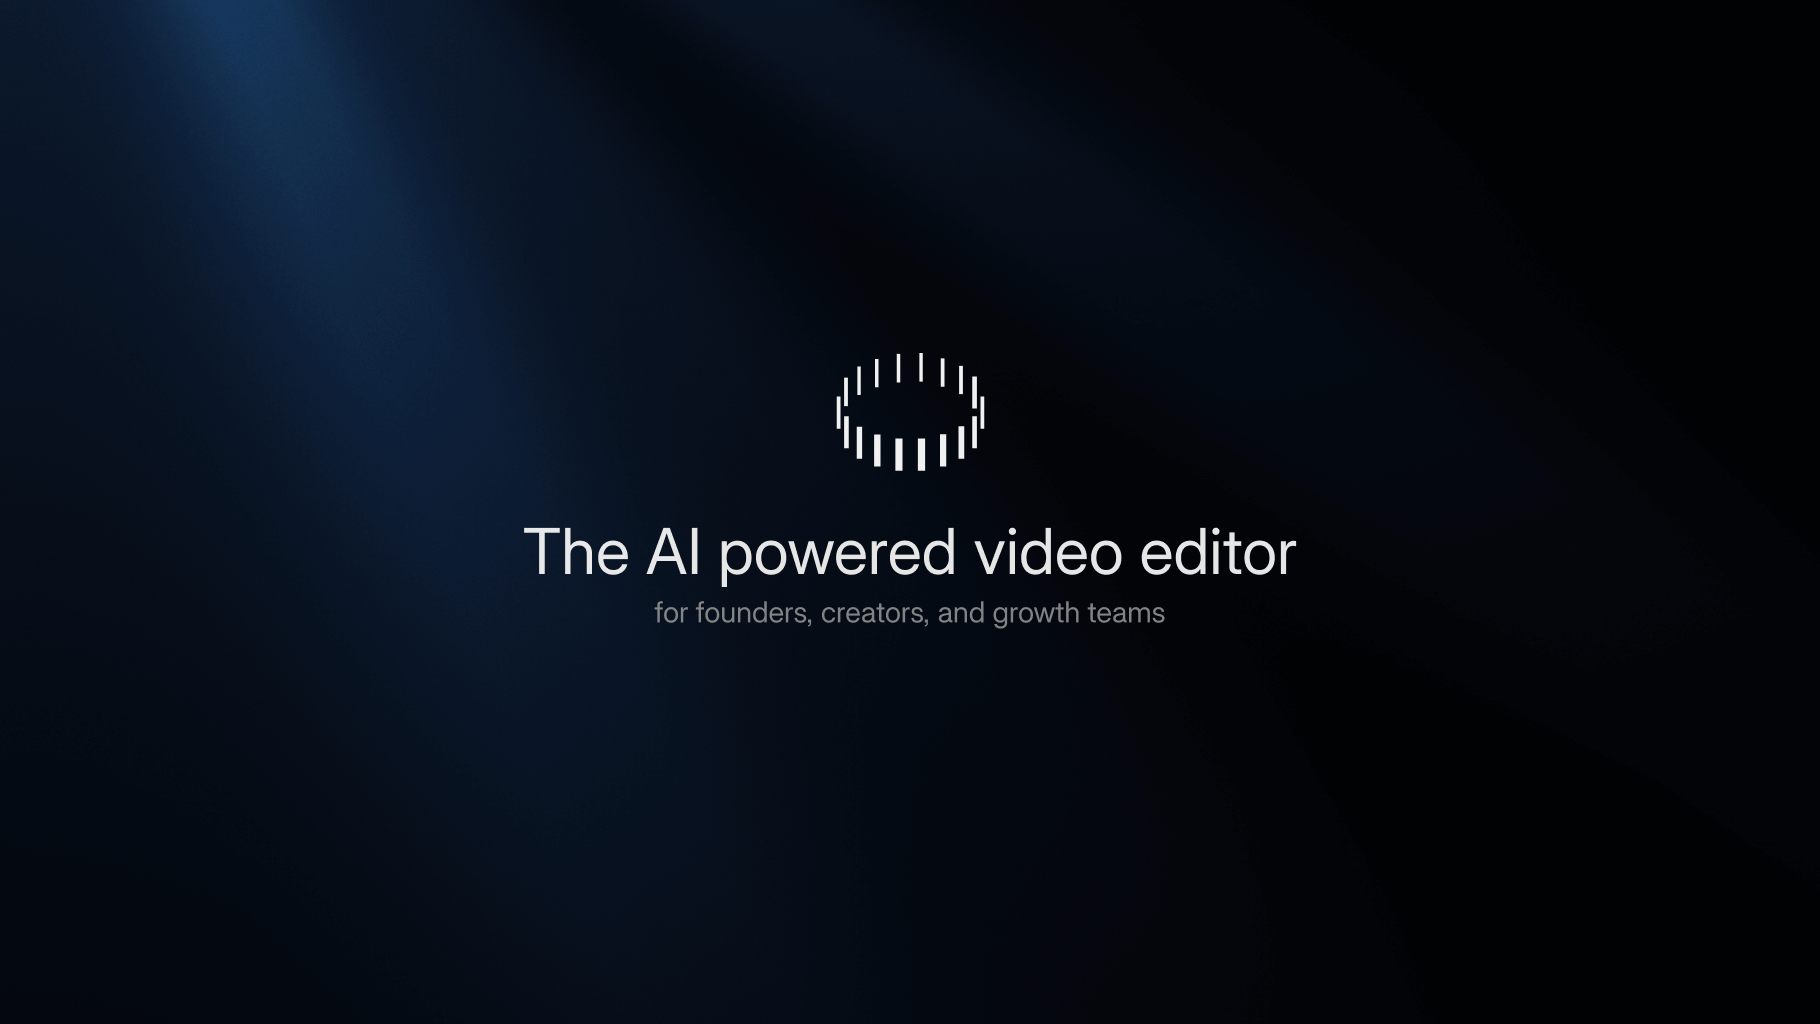
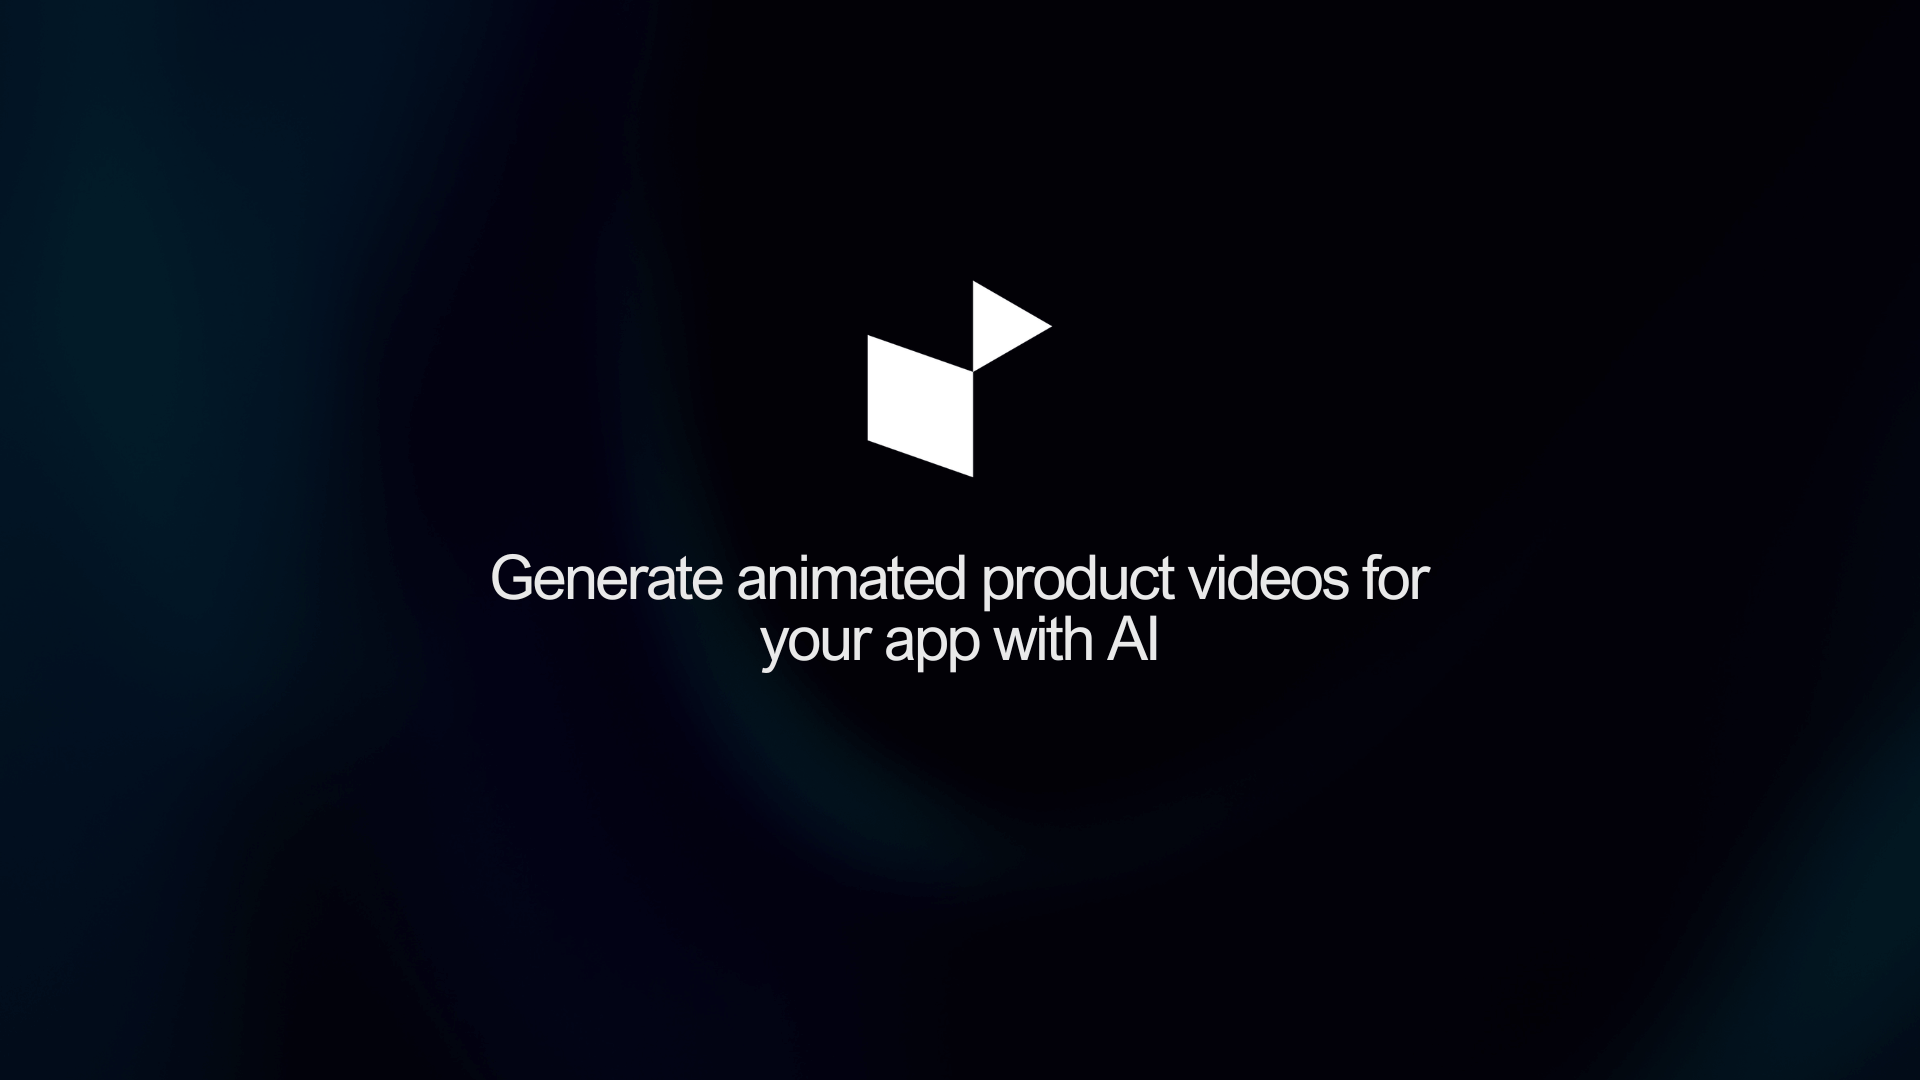
feat: seo and geo optimization

diff --git a/apps/web/app/page.tsx b/apps/web/app/page.tsx
@@ -1,5 +1,97 @@
+import type { Metadata } from "next";
 import { LandingPage } from "@/features/landing";
 
+const BASE_URL = "https://reanimate.sh";
+const APP_DESCRIPTION =
+  "Reanimate turns your app into animated, motion-designed marketing videos using AI. Create app demo videos, product launch clips, and social media content in minutes.";
+
+export const metadata: Metadata = {
+  title: "Reanimate | Generate animated product videos for your app with AI",
+  description: APP_DESCRIPTION,
+  alternates: {
+    canonical: BASE_URL,
+  },
+  openGraph: {
+    title: "Reanimate | Generate animated product videos for your app with AI",
+    description: APP_DESCRIPTION,
+    url: BASE_URL,
+  },
+  twitter: {
+    title: "Reanimate | Generate animated product videos for your app with AI",
+    description: APP_DESCRIPTION,
+  },
+};
+
+const softwareAppSchema = {
+  "@context": "https://schema.org",
+  "@type": "SoftwareApplication",
+  name: "Reanimate",
+  url: BASE_URL,
+  applicationCategory: "MultimediaApplication",
+  operatingSystem: "Web",
+  description: APP_DESCRIPTION,
+  offers: [
+    {
+      "@type": "Offer",
+      name: "Creator",
+      price: "25",
+      priceCurrency: "USD",
+      priceSpecification: {
+        "@type": "UnitPriceSpecification",
+        price: "25",
+        priceCurrency: "USD",
+        unitText: "MONTH",
+      },
+      description: "Full AI-powered editing, 5 active projects per month, 100GB cloud storage.",
+    },
+    {
+      "@type": "Offer",
+      name: "Pro",
+      price: "100",
+      priceCurrency: "USD",
+      priceSpecification: {
+        "@type": "UnitPriceSpecification",
+        price: "100",
+        priceCurrency: "USD",
+        unitText: "MONTH",
+      },
+      description: "Unlimited projects, priority AI processing, 1TB cloud storage, priority 24/7 support.",
+    },
+    {
+      "@type": "Offer",
+      name: "Teams",
+      description: "Custom pricing for organizations. Real-time collaboration, SAML & SSO, unlimited storage.",
+    },
+  ],
+  featureList: [
+    "AI-generated animated product videos",
+    "App demo video creation",
+    "Natural language video editing commands",
+    "Smart zoom and screen pan",
+    "Automated captions",
+    "Visual edit with click, drag, and resize",
+    "Unlimited exports",
+  ],
+  audience: {
+    "@type": "Audience",
+    audienceType:
+      "App developers, SaaS founders, product marketers, mobile app teams, indie hackers, startup teams",
+  },
+  creator: {
+    "@type": "Organization",
+    name: "Reanimate",
+    url: BASE_URL,
+  },
+};
+
 export default function Home() {
-  return <LandingPage />;
+  return (
+    <>
+      <script
+        type="application/ld+json"
+        dangerouslySetInnerHTML={{ __html: JSON.stringify(softwareAppSchema) }}
+      />
+      <LandingPage />
+    </>
+  );
 }

diff --git a/apps/web/app/layout.tsx b/apps/web/app/layout.tsx
@@ -3,17 +3,56 @@ import "./globals.css";
 import { ClerkProvider } from "@clerk/nextjs";
 import ConvexClientProvider from "@/components/ConvexClientProvider";
 
+const BASE_URL = "https://reanimate.sh";
+
 export const metadata: Metadata = {
-  title: "Reanimate | Generate animated product videos for your app with AI",
+  metadataBase: new URL(BASE_URL),
+  title: {
+    default: "Reanimate | Generate animated product videos for your app with AI",
+    template: "%s | Reanimate",
+  },
   description: "Turn your app into animated product videos with AI. Create demos, launch clips, and social content fast.",
   icons: {
     icon: "/logos/reanimate-logo-white.svg",
   },
+  alternates: {
+    canonical: BASE_URL,
+  },
   openGraph: {
     title: "Reanimate | Generate animated product videos for your app with AI",
     description: "Turn your app into animated product videos with AI. Create demos, launch clips, and social content fast.",
-    images: ["/images/marketing/og.png"],
+    images: [
+      {
+        url: "/images/marketing/og.png",
+        width: 1200,
+        height: 630,
+        alt: "Reanimate | Generate animated product videos for your app with AI",
+      },
+    ],
     type: "website",
+    siteName: "Reanimate",
+    locale: "en_US",
+    url: BASE_URL,
+  },
+  twitter: {
+    card: "summary_large_image",
+    title: "Reanimate | Generate animated product videos for your app with AI",
+    description: "Turn your app into animated product videos with AI. Create demos, launch clips, and social content fast.",
+    images: ["/images/marketing/og.png"],
+  },
+};
+
+const organizationSchema = {
+  "@context": "https://schema.org",
+  "@type": "Organization",
+  name: "Reanimate",
+  url: BASE_URL,
+  logo: `${BASE_URL}/logos/reanimate-logo-white.svg`,
+  description: "Turn your app into animated product videos with AI. Create demos, launch clips, and social content fast.",
+  contactPoint: {
+    "@type": "ContactPoint",
+    email: "contact@reanimate.sh",
+    contactType: "customer support",
   },
 };
 
@@ -24,6 +63,12 @@ export default function RootLayout({
 }>) {
   return (
     <html lang="en" className="dark">
+      <head>
+        <script
+          type="application/ld+json"
+          dangerouslySetInnerHTML={{ __html: JSON.stringify(organizationSchema) }}
+        />
+      </head>
       <body className="font-sans relative flex min-h-screen flex-col items-center justify-center overflow-x-hidden bg-black text-white">
         <ClerkProvider dynamic waitlistUrl="/waitlist">
           <ConvexClientProvider>{children}</ConvexClientProvider>

diff --git a/apps/web/app/pricing/page.tsx b/apps/web/app/pricing/page.tsx
@@ -1,5 +1,45 @@
+import type { Metadata } from "next";
 import { PricingPage } from "@/features/pricing";
+import { FAQS } from "@/features/pricing/data";
+
+export const metadata: Metadata = {
+  title: "Pricing",
+  description: "Simple, transparent pricing for Reanimate. Start with a 7-day free trial. Creator at $25/mo, Pro at $100/mo, or custom Teams pricing.",
+  alternates: {
+    canonical: "https://reanimate.sh/pricing",
+  },
+  openGraph: {
+    title: "Pricing | Reanimate",
+    description: "Simple, transparent pricing for Reanimate. Start with a 7-day free trial. Creator at $25/mo, Pro at $100/mo, or custom Teams pricing.",
+    url: "https://reanimate.sh/pricing",
+  },
+  twitter: {
+    title: "Pricing | Reanimate",
+    description: "Simple, transparent pricing for Reanimate. Start with a 7-day free trial. Creator at $25/mo, Pro at $100/mo, or custom Teams pricing.",
+  },
+};
+
+const faqSchema = {
+  "@context": "https://schema.org",
+  "@type": "FAQPage",
+  mainEntity: FAQS.map((faq) => ({
+    "@type": "Question",
+    name: faq.question,
+    acceptedAnswer: {
+      "@type": "Answer",
+      text: faq.answer,
+    },
+  })),
+};
 
 export default function PricingRoute() {
-  return <PricingPage />;
+  return (
+    <>
+      <script
+        type="application/ld+json"
+        dangerouslySetInnerHTML={{ __html: JSON.stringify(faqSchema) }}
+      />
+      <PricingPage />
+    </>
+  );
 }

diff --git a/apps/web/app/sitemap.ts b/apps/web/app/sitemap.ts
@@ -1,0 +1,38 @@
+import type { MetadataRoute } from "next";
+
+const BASE_URL = "https://reanimate.sh";
+
+export default function sitemap(): MetadataRoute.Sitemap {
+  return [
+    {
+      url: BASE_URL,
+      lastModified: new Date(),
+      changeFrequency: "weekly",
+      priority: 1,
+    },
+    {
+      url: `${BASE_URL}/pricing`,
+      lastModified: new Date(),
+      changeFrequency: "monthly",
+      priority: 0.9,
+    },
+    {
+      url: `${BASE_URL}/changelog`,
+      lastModified: new Date(),
+      changeFrequency: "weekly",
+      priority: 0.8,
+    },
+    {
+      url: `${BASE_URL}/privacy`,
+      lastModified: new Date(),
+      changeFrequency: "yearly",
+      priority: 0.3,
+    },
+    {
+      url: `${BASE_URL}/terms`,
+      lastModified: new Date(),
+      changeFrequency: "yearly",
+      priority: 0.3,
+    },
+  ];
+}

diff --git a/apps/web/app/changelog/page.tsx b/apps/web/app/changelog/page.tsx
@@ -1,4 +1,22 @@
+import type { Metadata } from "next";
 import { ChangelogPage } from "@/features/changelog";
+
+export const metadata: Metadata = {
+  title: "Changelog",
+  description: "Stay up to date with the latest features, improvements, and fixes shipped by the Reanimate team.",
+  alternates: {
+    canonical: "https://reanimate.sh/changelog",
+  },
+  openGraph: {
+    title: "Changelog | Reanimate",
+    description: "Stay up to date with the latest features, improvements, and fixes shipped by the Reanimate team.",
+    url: "https://reanimate.sh/changelog",
+  },
+  twitter: {
+    title: "Changelog | Reanimate",
+    description: "Stay up to date with the latest features, improvements, and fixes shipped by the Reanimate team.",
+  },
+};
 
 export default function ChangelogRoute() {
   return <ChangelogPage />;

diff --git a/apps/web/app/waitlist/success/page.tsx b/apps/web/app/waitlist/success/page.tsx
@@ -1,6 +1,11 @@
+import type { Metadata } from "next";
 import Link from "next/link";
 import { ReanimateLogo } from "@/features/landing/components/icons/ReanimateLogo";
 import { SocialLinks } from "@/features/landing/components/SocialLinks";
+
+export const metadata: Metadata = {
+  robots: { index: false, follow: false },
+};
 
 const BrandLink = ({ mobile = false }: { mobile?: boolean }) => (
   <Link href="/" className="flex items-center gap-3">

diff --git a/apps/web/app/server/page.tsx b/apps/web/app/server/page.tsx
@@ -1,6 +1,11 @@
+import type { Metadata } from "next";
 import Home from "./inner";
 import { preloadQuery, preloadedQueryResult } from "convex/nextjs";
 import { api } from "@/lib/convexApi";
+
+export const metadata: Metadata = {
+  robots: { index: false, follow: false },
+};
 
 export default async function ServerPage() {
   const preloaded = await preloadQuery(api.users.current, {});

diff --git a/apps/web/app/sso-callback/page.tsx b/apps/web/app/sso-callback/page.tsx
@@ -1,4 +1,9 @@
+import type { Metadata } from "next";
 import { AuthenticateWithRedirectCallback } from "@clerk/nextjs";
+
+export const metadata: Metadata = {
+  robots: { index: false, follow: false },
+};
 
 export default function SSOCallbackPage() {
   return <AuthenticateWithRedirectCallback />;

diff --git a/apps/web/app/app/home/[[...rest]]/page.tsx b/apps/web/app/app/home/[[...rest]]/page.tsx
@@ -1,5 +1,10 @@
+import type { Metadata } from "next";
 import { UserButton, UserProfile } from "@clerk/nextjs";
 import { dark } from "@clerk/themes";
+
+export const metadata: Metadata = {
+  robots: { index: false, follow: false },
+};
 
 const clerkAppearance = {
   baseTheme: dark,

diff --git a/apps/web/app/waitlist/[[...rest]]/page.tsx b/apps/web/app/waitlist/[[...rest]]/page.tsx
@@ -1,4 +1,9 @@
+import type { Metadata } from "next";
 import { AuthPage } from "@/features/auth";
+
+export const metadata: Metadata = {
+  robots: { index: false, follow: false },
+};
 
 export default function WaitlistPage() {
   return <AuthPage mode="waitlist" />;

diff --git a/apps/web/app/signup/[[...rest]]/page.tsx b/apps/web/app/signup/[[...rest]]/page.tsx
@@ -1,4 +1,9 @@
+import type { Metadata } from "next";
 import { AuthPage } from "@/features/auth";
+
+export const metadata: Metadata = {
+  robots: { index: false, follow: false },
+};
 
 export default function SignupPage() {
   return <AuthPage mode="signup" />;

diff --git a/apps/web/app/login/[[...rest]]/page.tsx b/apps/web/app/login/[[...rest]]/page.tsx
@@ -1,4 +1,9 @@
+import type { Metadata } from "next";
 import { AuthPage } from "@/features/auth";
+
+export const metadata: Metadata = {
+  robots: { index: false, follow: false },
+};
 
 export default function LoginPage() {
   return <AuthPage mode="login" />;
